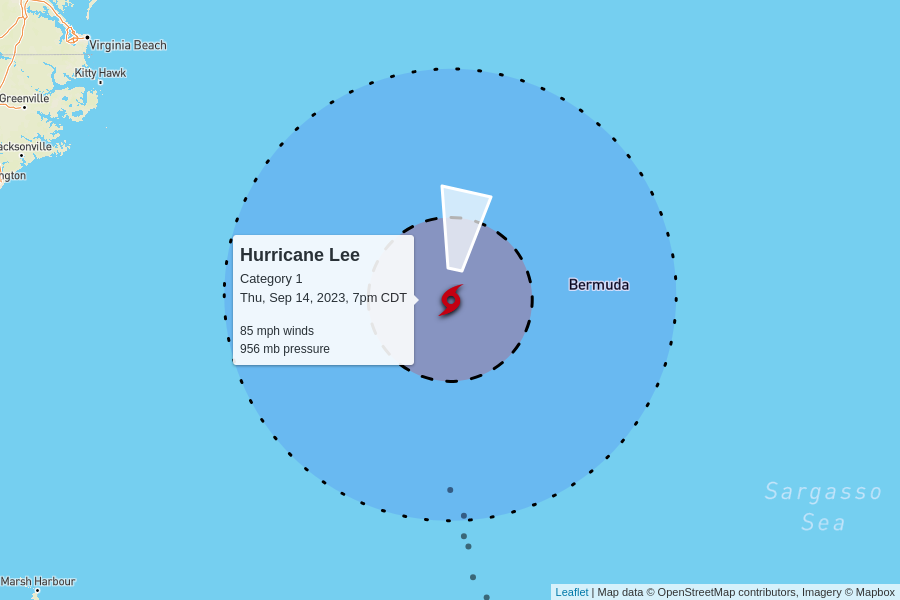
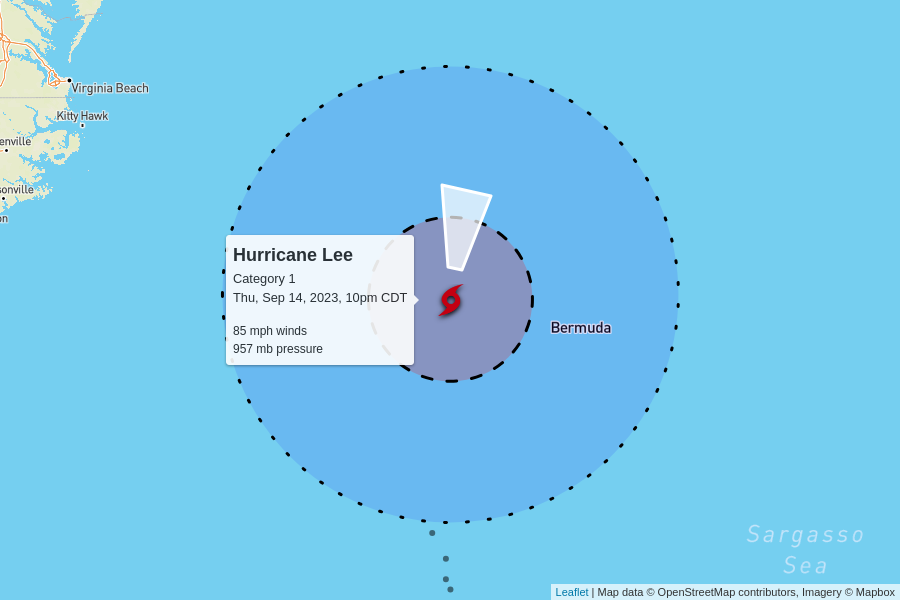
automatic update

diff --git a/docs/index.html b/docs/index.html
@@ -104,7 +104,7 @@
         <td colspan="6" class="storm category-1" >
           <h2>
             Hurricane Lee - Category 1
-            <p class="updated">last updated <span data-time>2023-09-15T00:00:00.000Z</span></p>
+            <p class="updated">last updated <span data-time>2023-09-15T03:00:00.000Z</span></p>
           </h2>
         </td>
       </tr>
@@ -120,9 +120,9 @@
       <tr>
         <td class="spacer"></td>
         <td>85 mph<br>0 mph since last update</td>
-        <td>956 mb<br>-1 mb since last update</td>
+        <td>957 mb<br>+1 mb since last update</td>
         <td>
-          15 mph to the north
+          14 mph to the north
           <br/>
           <span style="display: inline-block; font-size: 1.5em; transform: rotate(10deg);">↑</span>
         </td>
@@ -148,7 +148,7 @@
         <td colspan="6" class="storm category-1" >
           <h2>
             Hurricane Margot - Category 1
-            <p class="updated">last updated <span data-time>2023-09-14T21:00:00.000Z</span></p>
+            <p class="updated">last updated <span data-time>2023-09-15T03:00:00.000Z</span></p>
           </h2>
         </td>
       </tr>
@@ -163,12 +163,12 @@
       </tr>
       <tr>
         <td class="spacer"></td>
-        <td>80 mph<br>0 mph since last update</td>
-        <td>978 mb<br>0 mb since last update</td>
+        <td>75 mph<br>-5 mph since last update</td>
+        <td>982 mb<br>+4 mb since last update</td>
         <td>
-          5 mph to the northeast
+          3 mph to the east-northeast
           <br/>
-          <span style="display: inline-block; font-size: 1.5em; transform: rotate(50deg);">↑</span>
+          <span style="display: inline-block; font-size: 1.5em; transform: rotate(70deg);">↑</span>
         </td>
         <td><a href="https://raw.githubusercontent.com/mgwalker/atlantic-hurricanes/main/data/csv/AL142023.csv">AL142023.csv</a></td>
         <td><a href="https://www.nhc.noaa.gov/archive/2023/MARGOT.shtml?">NHC advisories</a></td>
